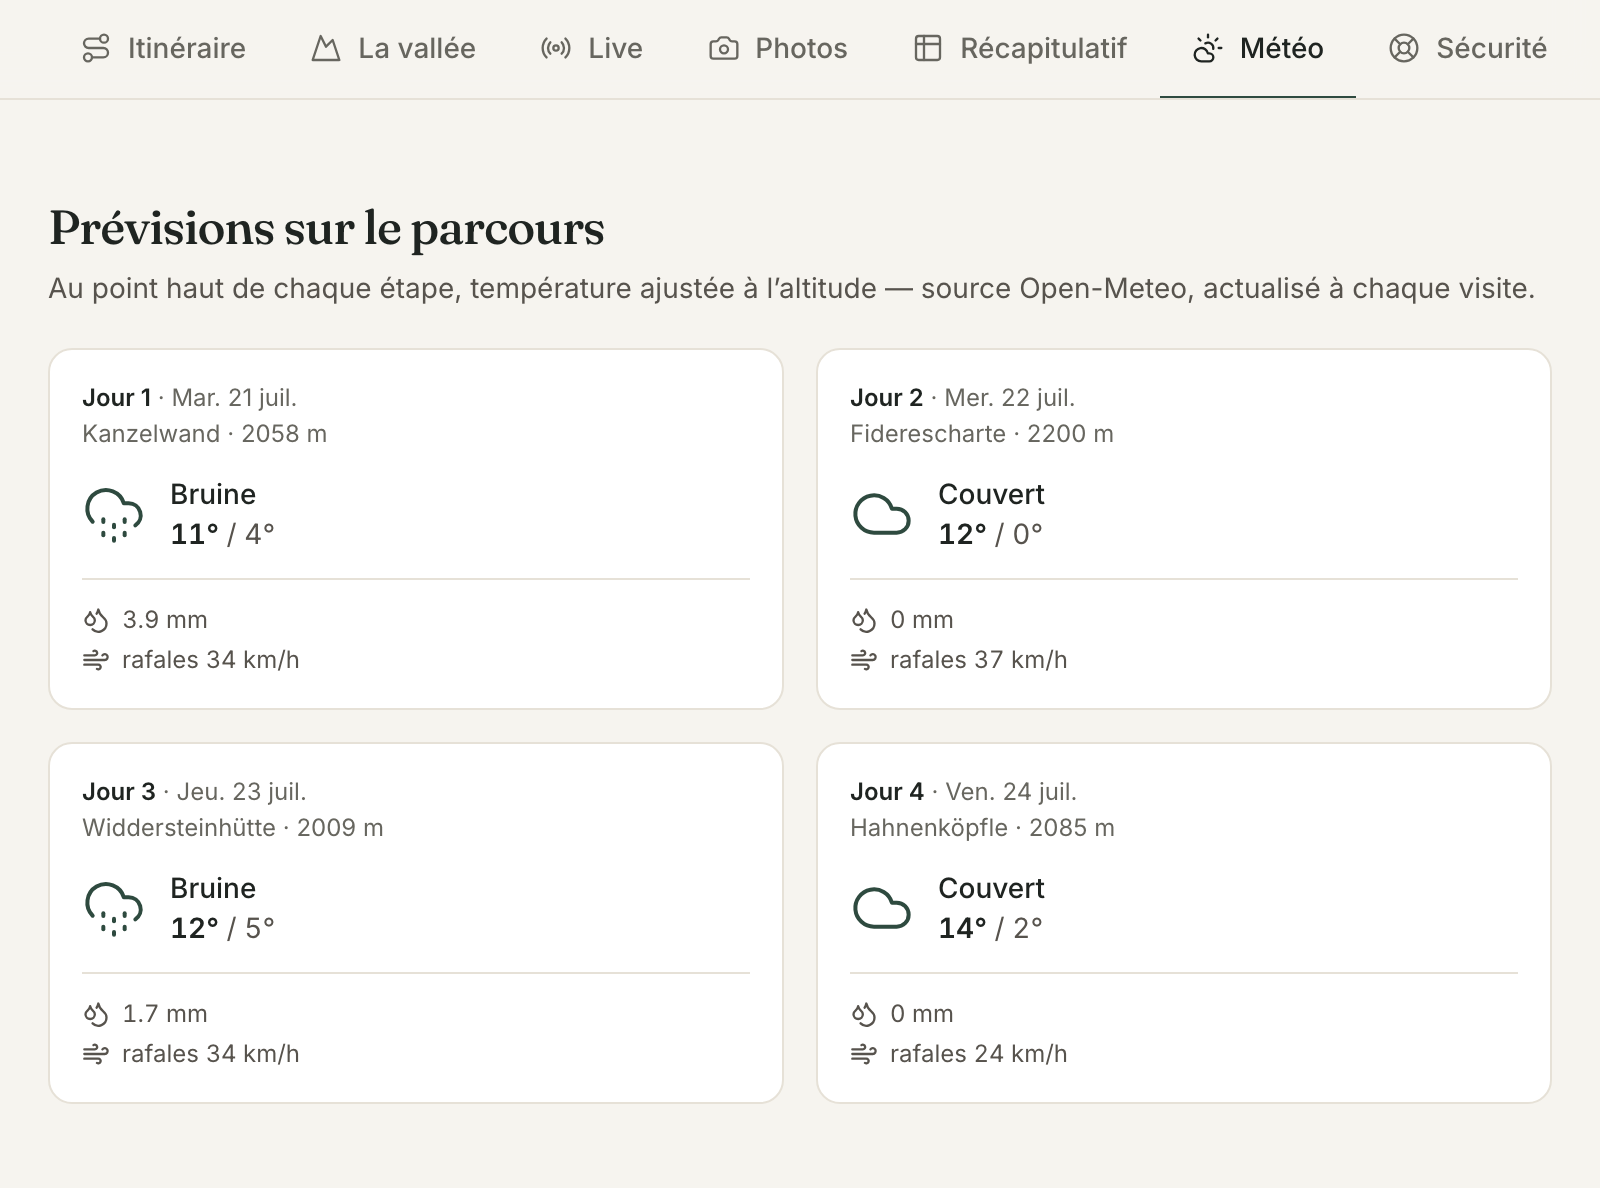
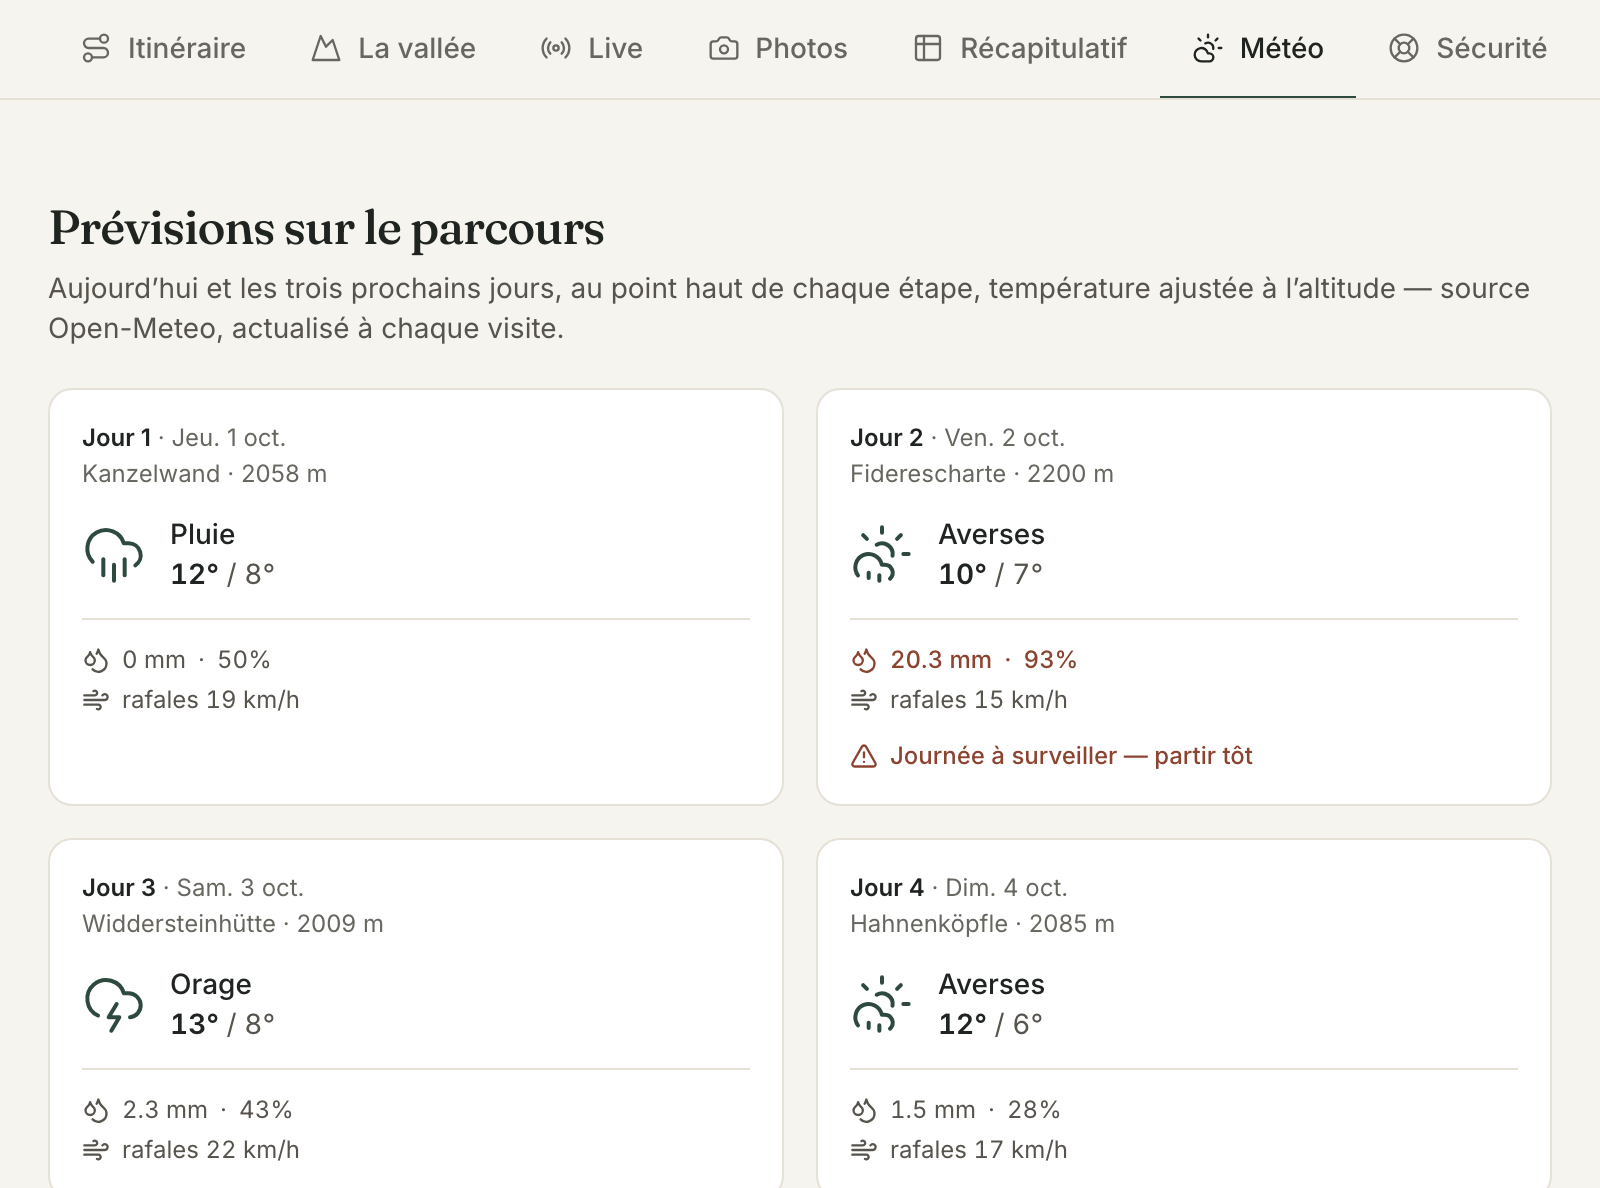
Météo: show today and the next three days
The forecast cards were pinned to the July trek dates, which fell out of
Open-Meteo's window and rendered as 0°. Each card now shows today + N-1
days (Vienna time) at its stage's high point.

diff --git a/src/components/Weather.tsx b/src/components/Weather.tsx
@@ -17,7 +17,7 @@ import {
   Wind,
   type LucideIcon,
 } from "lucide-react";
-import { TREK_DAYS, WEATHER_SPOTS, WEATHER_LINKS } from "@/data/trek";
+import { WEATHER_SPOTS, WEATHER_LINKS } from "@/data/trek";
 
 // ─── WMO weather codes → icon + French label ───────────────
 
@@ -34,8 +34,21 @@ function wmoInfo(code: number): { icon: LucideIcon; label: string } {
   return { icon: CloudLightning, label: "Orage" };
 }
 
+// "2026-10-01" → "Jeu. 1 oct." — same style as the day cards.
+const dateFormat = new Intl.DateTimeFormat("fr-FR", {
+  weekday: "short",
+  day: "numeric",
+  month: "short",
+  timeZone: "UTC",
+});
+function formatDate(iso: string): string {
+  const s = dateFormat.format(new Date(`${iso}T12:00:00Z`));
+  return s.charAt(0).toUpperCase() + s.slice(1);
+}
+
 interface DayForecast {
   dayNumber: number;
+  dateLabel: string;
   spotName: string;
   altitudeM: number;
   icon: LucideIcon;
@@ -59,12 +72,12 @@ export default function Weather() {
     const lats = WEATHER_SPOTS.map((s) => s.coord[0]).join(",");
     const lons = WEATHER_SPOTS.map((s) => s.coord[1]).join(",");
     const eles = WEATHER_SPOTS.map((s) => s.altitudeM).join(",");
-    const start = WEATHER_SPOTS[0].dateIso;
-    const end = WEATHER_SPOTS[WEATHER_SPOTS.length - 1].dateIso;
+    // Rolling window: card N shows today + N-1 days (Vienna time), so the
+    // tab stays useful before, during and after the trek.
     const url =
       `https://api.open-meteo.com/v1/forecast?latitude=${lats}&longitude=${lons}&elevation=${eles}` +
       `&daily=weather_code,temperature_2m_max,temperature_2m_min,precipitation_sum,precipitation_probability_max,wind_gusts_10m_max` +
-      `&timezone=Europe%2FVienna&start_date=${start}&end_date=${end}`;
+      `&timezone=Europe%2FVienna&forecast_days=${WEATHER_SPOTS.length}`;
 
     fetch(url)
       .then((r) => {
@@ -75,11 +88,12 @@ export default function Weather() {
         const results = Array.isArray(data) ? data : [data];
         const forecasts = WEATHER_SPOTS.map((spot, i) => {
           const daily = results[i]?.daily;
-          const idx = daily?.time?.indexOf(spot.dateIso);
-          if (idx === undefined || idx < 0) throw new Error("date hors fenêtre");
+          const idx = i;
+          if (!daily?.time?.[idx]) throw new Error("prévision manquante");
           const { icon, label } = wmoInfo(daily.weather_code[idx]);
           return {
             dayNumber: spot.dayNumber,
+            dateLabel: formatDate(daily.time[idx]),
             spotName: spot.name,
             altitudeM: spot.altitudeM,
             icon,
@@ -103,8 +117,9 @@ export default function Weather() {
           Prévisions sur le parcours
         </h3>
         <p className="text-sm text-stone-600 mb-5">
-          Au point haut de chaque étape, température ajustée à l&rsquo;altitude
-          — source Open-Meteo, actualisé à chaque visite.
+          Aujourd&rsquo;hui et les trois prochains jours, au point haut de
+          chaque étape, température ajustée à l&rsquo;altitude — source
+          Open-Meteo, actualisé à chaque visite.
         </p>
 
         <p role="status" className="sr-only">
@@ -129,16 +144,14 @@ export default function Weather() {
         {state.status === "error" && (
           <div role="alert" className="flex gap-3 rounded-lg border border-line bg-white px-4 py-3 text-sm text-stone-700 leading-relaxed">
             <TriangleAlert aria-hidden="true" className="size-4 shrink-0 mt-0.5 text-gold-deep" />
-            Prévisions indisponibles pour le moment — la fenêtre de prévision
-            est d&rsquo;environ 16 jours. Consultez les sites spécialisés
-            ci-dessous.
+            Prévisions indisponibles pour le moment. Consultez les sites
+            spécialisés ci-dessous.
           </div>
         )}
 
         {state.status === "ok" && (
           <ul className="grid grid-cols-1 sm:grid-cols-2 lg:grid-cols-4 gap-4">
             {state.forecasts.map((f) => {
-              const day = TREK_DAYS.find((d) => d.dayNumber === f.dayNumber)!;
               const wetWarning =
                 (f.precipProb !== null && f.precipProb >= 60) || f.gustsKmh >= 60;
               return (
@@ -148,7 +161,7 @@ export default function Weather() {
                 >
                   <div>
                     <h4 className="text-xs text-rock">
-                      <span className="font-semibold text-ink">Jour {f.dayNumber}</span> · {day.dateShort}
+                      <span className="font-semibold text-ink">Jour {f.dayNumber}</span> · {f.dateLabel}
                     </h4>
                     <p className="text-xs text-rock mt-0.5">
                       {f.spotName} · {f.altitudeM} m

diff --git a/README.md b/README.md
@@ -15,7 +15,7 @@ A single-page Next.js app that turns structured data files into a full interacti
 - **Live** — record your GPS track from a phone (Brieuc in azure, Sophie in coral, start/stop, shared record key) and let visitors watch both positions update on the map every 15 s, with live/last-seen status chips and a **position journal**: one reverse-geocoded entry per minute (place, time, exact coordinates)
 - **Photos** — a shared trek album: upload photos straight from the phone (camera or gallery, multi-select, optional caption, same record key as Live). Images are downscaled client-side before upload so they pass on mountain 4G; visitors see the album update as the hike goes on
 - **Summary table** — all 4 days compared side by side
-- **Météo** — live forecast for each stage at its high point, altitude-adjusted (Open-Meteo), with storm/wind warnings and links to specialist mountain weather sites
+- **Météo** — live forecast for today and the next three days, one card per stage at its high point, altitude-adjusted (Open-Meteo), with storm/wind warnings and links to specialist mountain weather sites
 - **Sécurité** — tap-to-call emergency numbers (140 / 144 / 112) and mountain safety tips adapted from the official Vorarlberg Tourismus guidance
 - **Checklist** — gear to pack, with tick-off checkboxes
 
